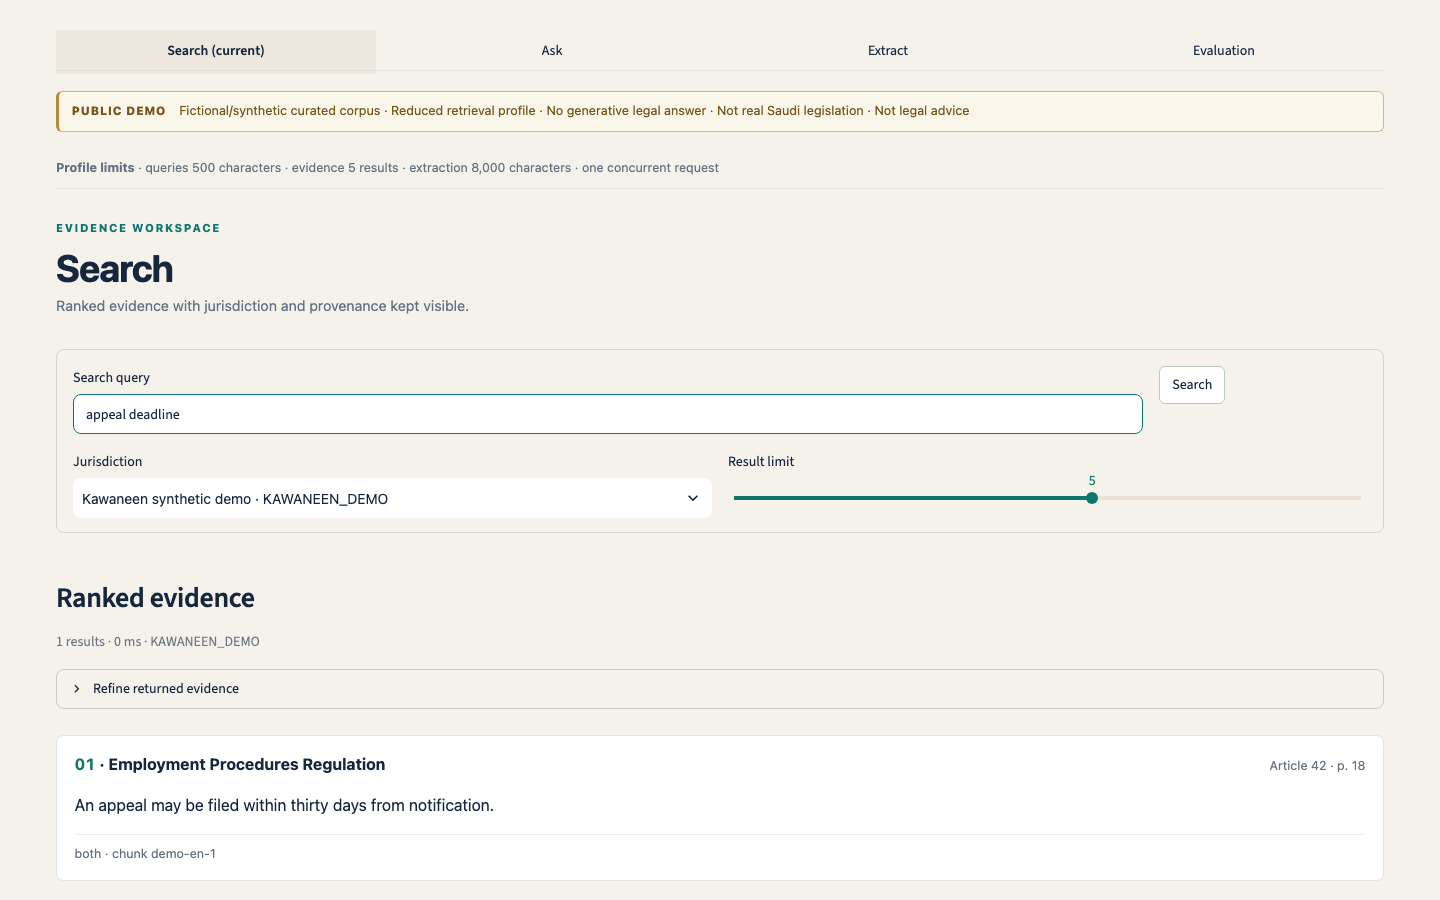
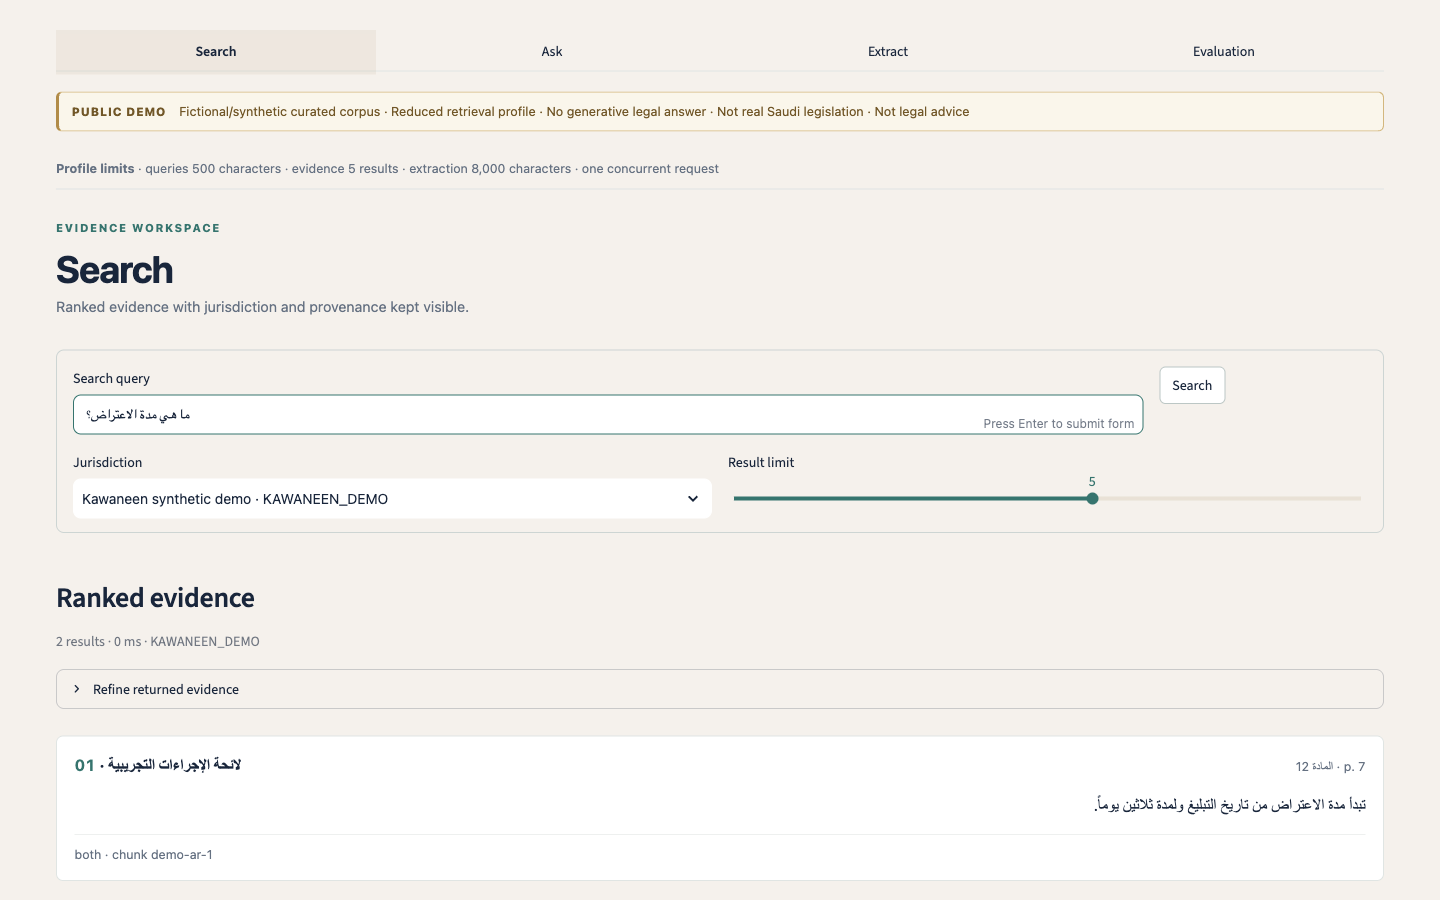
fix: remove current marker from product navigation

diff --git a/src/kawaneen/ui/components.py b/src/kawaneen/ui/components.py
@@ -27,8 +27,7 @@ def render_product_navigation(active_page: str | None = None) -> None:
         columns = st.columns(len(_PRODUCT_NAVIGATION), gap="small", vertical_alignment="center")
         for column, (path, label) in zip(columns, _PRODUCT_NAVIGATION, strict=True):
             with column:
-                visible_label = f"{label} (current)" if label == active_page else label
-                st.page_link(path, label=visible_label, width="stretch")
+                st.page_link(path, label=label, width="stretch")
 
 
 def render_product_header(state: UiSessionState, active_page: str | None = None) -> None:

diff --git a/tests/test_ui_app.py b/tests/test_ui_app.py
@@ -97,11 +97,12 @@ def test_product_navigation_uses_existing_page_paths_and_labels(monkeypatch) -> 
     components.render_product_navigation("Search")
 
     assert fake.page_links == [
-        ("pages/search.py", "Search (current)"),
+        ("pages/search.py", "Search"),
         ("pages/ask.py", "Ask"),
         ("pages/extract.py", "Extract"),
         ("pages/evaluation.py", "Evaluation"),
     ]
+    assert all("(current)" not in label for _, label in fake.page_links if label is not None)
 
 
 def _run() -> AppTest:
